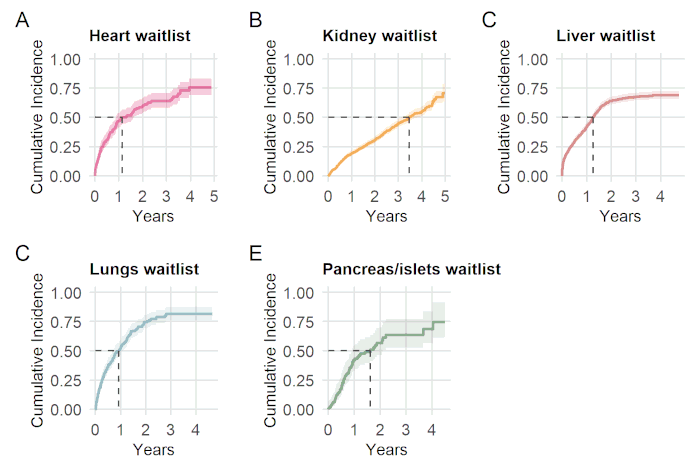
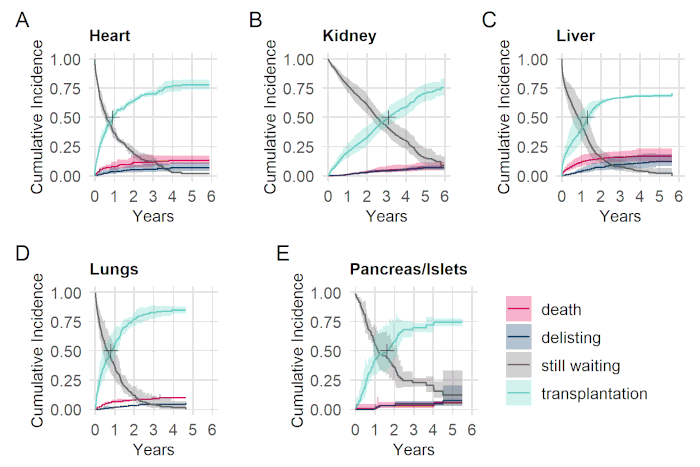
update WAIT

diff --git a/docs/projects.html b/docs/projects.html
@@ -132,7 +132,7 @@ gtag('config', 'G-GPR2YZSX56', { 'anonymize_ip': true});
   <li><a href="#resources-1" id="toc-resources-1" class="nav-link" data-scroll-target="#resources-1">Resources</a></li>
   <li><a href="#publications-1" id="toc-publications-1" class="nav-link" data-scroll-target="#publications-1">Publications</a></li>
   </ul></li>
-  <li><a href="#waitwaiting-list-analysis-in-transplantation" id="toc-waitwaiting-list-analysis-in-transplantation" class="nav-link" data-scroll-target="#waitwaiting-list-analysis-in-transplantation">3. WAIT—Waiting list analysis in transplantation</a>
+  <li><a href="#waitwaitlist-analysis-in-transplantation" id="toc-waitwaitlist-analysis-in-transplantation" class="nav-link" data-scroll-target="#waitwaitlist-analysis-in-transplantation">3. WAIT—Waitlist analysis in transplantation</a>
   <ul class="collapse">
   <li><a href="#publications-2" id="toc-publications-2" class="nav-link" data-scroll-target="#publications-2">Publications</a></li>
   </ul></li>
@@ -211,9 +211,9 @@ gtag('config', 'G-GPR2YZSX56', { 'anonymize_ip': true});
 <p>Schwab S, Steck H, Binet I, Elmer A, Ender W, Franscini N, et al.&nbsp;EXAM: Ex vivo allograft monitoring dashboard for the analysis of hypothermic machine perfusion data in deceased-donor kidney transplantation. <em>Research Square</em>. 2023. <a href="https://doi.org/10.21203/rs.3.rs-2713168/v1">doi:10.21203/rs.3.rs-2713168/v1</a></p>
 </section>
 </section>
-<section id="waitwaiting-list-analysis-in-transplantation" class="level2">
-<h2 class="anchored" data-anchor-id="waitwaiting-list-analysis-in-transplantation">3. WAIT—Waiting list analysis in transplantation</h2>
-<p>Median waiting times published by transplant organizations around the world may be biased when death or censoring is disregarded. Competing risk multistate models are suited for the analysis of time-to-event data of the organ waiting list. Resulting cumulative incidences are probabilities for transplantation or death by a given time and are a more accurate description of the events occurring on the waiting list. In accordance with the concept of median survival time in survival analysis in clinical trials, we can derive the median time to transplantation (MTT), the waiting time duration at which the transplant probability is 0.50.</p>
+<section id="waitwaitlist-analysis-in-transplantation" class="level2">
+<h2 class="anchored" data-anchor-id="waitwaitlist-analysis-in-transplantation">3. WAIT—Waitlist analysis in transplantation</h2>
+<p>Median organ waiting times published by transplant organizations may be biased when not appropriately accounting for censoring, death, and competing events. This can lead to overly optimistic waiting times for all transplant programs and, consequently, may deceive patients on the waiting list, transplant physicians, and health care policymakers. This study applyied competing-risk multistate models to calculate probabilities for transplantation and adverse outcomes on the Swiss national transplant waiting list.</p>
 <div class="quarto-figure quarto-figure-center">
 <figure class="figure">
 <p><img src="images/proj-wait-CI.png" class="img-fluid figure-img" style="width:6.7in"></p>
@@ -222,7 +222,7 @@ gtag('config', 'G-GPR2YZSX56', { 'anonymize_ip': true});
 </div>
 <section id="publications-2" class="level3">
 <h3 class="anchored" data-anchor-id="publications-2">Publications</h3>
-<p>Schwab S, Elmer A, Sidler D, Straumann L, Stuerzinger U, Immer F. Selection bias in reporting of median waiting times in organ transplantation. <em>medRxiv</em>. 2023. p.&nbsp;2023.12.13.23299859. <a href="http://dx.doi.org/10.1101/2023.12.13.23299859">doi:10.1101/2023.12.13.23299859</a></p>
+<p>Schwab S, Elmer A, Sidler D, Straumann L, Stürzinger U, Immer F. Selection Bias in Reporting of Median Waiting Times in Organ Transplantation. <em>JAMA Netw Open.</em> 2024;7(9):e2432415-e2432415. <a href="https://doi.org/10.1001/jamanetworkopen.2024.32415">doi:10.1001/jamanetworkopen.2024.32415</a></p>
 </section>
 </section>
 <section id="reportreporting-and-evaluation-of-prediction-models-in-organ-transplantation" class="level2">

diff --git a/docs/about.html b/docs/about.html
@@ -183,7 +183,7 @@ gtag('config', 'G-GPR2YZSX56', { 'anonymize_ip': true});
 
 
 <p>I’m a senior statistician at <a href="https://www.swisstransplant.org/">Swisstransplant</a> with professional qualifications in medical research and statistics. I’m also lecturer in biostatistics and good research practice at the <a href="https://www.crs.uzh.ch/">Center for Reproducible Science</a>, a competence center of the University of Zurich.</p>
-<p>I obtained my PhD in Health Sciences and a postgraduate certificate in Advanced Statistical Data Science from the University of Bern. I received 3.5 years of postdoctoral training in statistics at the University of Warwick and the University of Oxford funded by the Swiss National Science Foundation (SNF).</p>
+<p>I obtained my PhD in Health Sciences and a postgraduate certificate in Advanced Statistical Data Science from the University of Bern. I received 2.5 years of postdoctoral training in statistics at the University of Warwick and the University of Oxford funded by the Swiss National Science Foundation (SNSF).</p>
 <p>Furthermore, I’m a member of the scientific committee of the <a href="https://www.stcs.ch/">Swiss Transplant Cohort Study (STCS)</a> and a founding member of the interest group <a href="https://sites.google.com/view/statistics-in-transplantation/startseite">Statistics in Organ Transplantation (SOT)</a>.</p>
 <section id="memberships" class="level2">
 <h2 class="anchored" data-anchor-id="memberships">Memberships</h2>
@@ -198,7 +198,7 @@ gtag('config', 'G-GPR2YZSX56', { 'anonymize_ip': true});
 <p>I am married and the father of two children (born 2021 and 2023). I enjoy playing guitar and listening to alternative metal and indie rock.</p>
 <div class="quarto-figure quarto-figure-center">
 <figure class="figure">
-<p><img src="images/pj_zurich.jpg" class="img-fluid figure-img" style="width:6.7in"></p>
+<p><img src="images/about-pj_zurich.jpg" class="img-fluid figure-img" style="width:6.7in"></p>
 <figcaption>Pearl Jam live in Zurich on 22. June 2022.</figcaption>
 </figure>
 </div>

diff --git a/docs/output.html b/docs/output.html
@@ -163,7 +163,7 @@ gtag('config', 'G-GPR2YZSX56', { 'anonymize_ip': true});
 </section>
 <section id="r-software" class="level2">
 <h2 class="anchored" data-anchor-id="r-software">R Software</h2>
-<p><img src="images/stickers_400.png" class="img-fluid" style="width:3.35in" alt="Hex stickers for R packages."></p>
+<p><img src="images/output-stickers_400.png" class="img-fluid" style="width:3.35in" alt="Hex stickers for R packages."></p>
 <ul>
 <li><p><a href="https://github.com/schw4b/cochrane">cochrane</a>—Import Data from the Cochrane Database of Systematic Reviews (CDSR).</p></li>
 <li><p><a href="https://github.com/Swisstransplant/EXAM">EXAM</a>—Ex vivo allograft monitoring dashboard.</p></li>

diff --git a/docs/index.html b/docs/index.html
@@ -165,7 +165,7 @@ gtag('config', 'G-GPR2YZSX56', { 'anonymize_ip': true});
 <em>Royal Statistical Society, 2023</em></p>
 <p>CAS—Advanced Statistical Data Science<br>
 <em>University of Bern, 2022</em></p>
-<p>PhD—Health Science<br>
+<p>PhD—Health Sciences<br>
 <em>University of Bern, 2013</em></p>
 <p>MSc—Quantitative Psychology &amp; Computer Science<br>
 <em>University of Bern, 2008</em></p>
